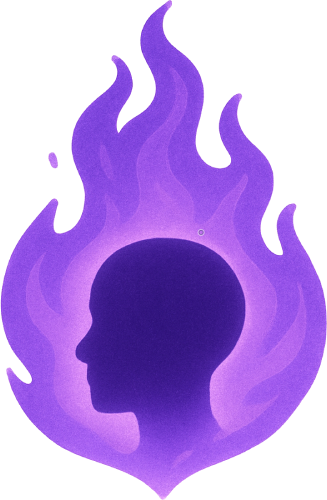
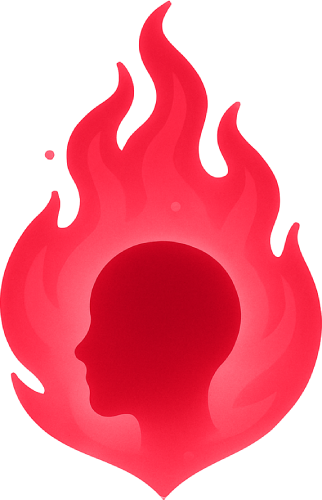
Kiro vibe: Options page UI enhancements

diff --git a/options.css b/options.css
@@ -2,6 +2,13 @@
    Soul Shepherd Options Page Styles
    ============================================================================ */
 
+@font-face {
+  font-family: 'Rubik Spray Paint';
+  src: url('RubikSprayPaint-Regular.ttf') format('truetype');
+  font-weight: normal;
+  font-style: normal;
+}
+
 * {
   margin: 0;
   padding: 0;
@@ -37,7 +44,12 @@ body {
 
 header {
   background: linear-gradient(135deg, #2d2d44 0%, #1f1f2e 100%);
+  background-image: url('options_header_bg.png');
+  background-size: auto 100%;
+  background-position: center bottom;
+  background-repeat: no-repeat;
   padding: 30px;
+  padding-top: 94px;
   text-align: center;
   border-bottom: 2px solid rgba(138, 180, 248, 0.2);
 }
@@ -49,9 +61,14 @@ header {
 }
 
 header h1 {
-  font-size: 28px;
-  color: #8ab4f8;
-  font-weight: 600;
+  font-family: 'Rubik Spray Paint', cursive;
+  font-size: 32px;
+  color: #ffffff;
+  font-weight: normal;
+  text-shadow: 
+    2px 2px 4px rgba(138, 43, 226, 0.6),
+    4px 4px 8px rgba(219, 39, 119, 0.5),
+    6px 6px 12px rgba(255, 140, 0, 0.4);
 }
 
 /* ============================================================================

diff --git a/options.html b/options.html
@@ -9,8 +9,7 @@
   <body>
     <div class="container">
       <header>
-        <img src="soul_shepherd.png" alt="Soul Shepherd" class="header-icon" />
-        <h1>Soul Shepherd Options</h1>
+        <h1>Soulful Sessions Options</h1>
       </header>
 
       <nav class="tabs" role="tablist" aria-label="Options navigation">
